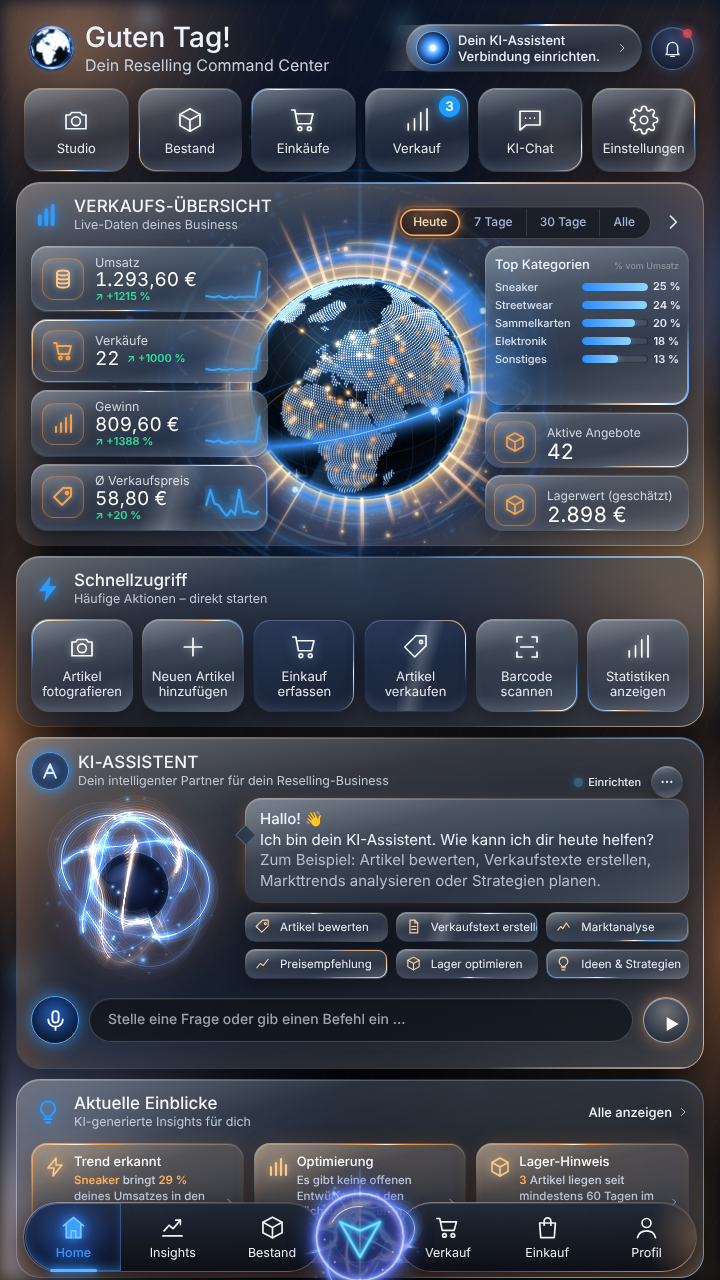
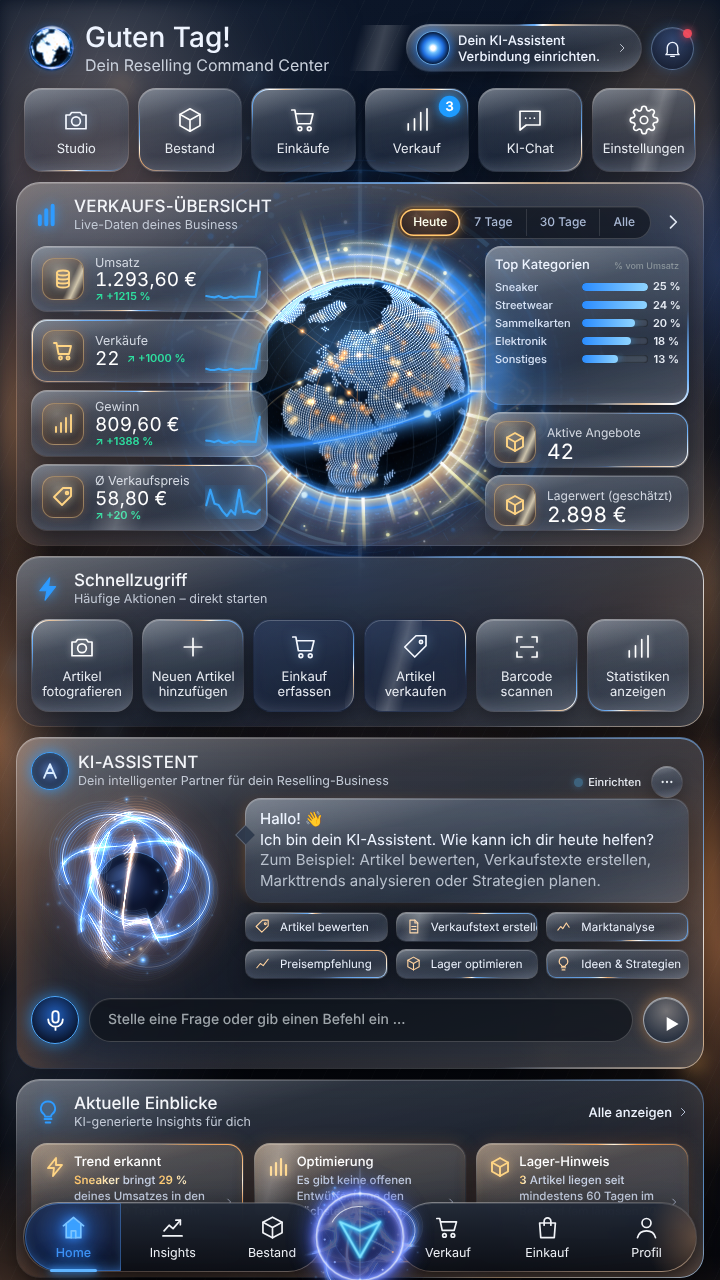
Gold-Symbole heller, langsames Gold-Schimmern auf allen goldenen Effekten
- Kennzahl-, Lager-, Einblick- und Anfrage-Symbole in hellem Gold
- Symbole leuchten zeitversetzt auf, Lichtstreifen gleitet über die Symbolfelder
- Gold-Hervorhebungen im Text, „Heute“ und goldenes Globus-Kraftfeld schimmern

Claude-Session: https://claude.ai/code/session_0194bcZ5PbUBuV3hzmwdGD96

diff --git a/public/theme.css b/public/theme.css
@@ -822,3 +822,43 @@ body:has(#home:not(.hidden)) .v11-ai .rv-crafted-chat #homeAiSend, .cc-send { bo
 @keyframes cc-ray { 0%,100% { opacity:.45; transform:scaleX(.65); } 50% { opacity:1; transform:scaleX(1.15); } }
 .v15-globe-wrap { width:330px !important; height:330px !important; margin-top:0 !important; }
 @media(min-width:1000px) { .v15-globe-wrap { width:440px !important; height:440px !important; } }
+
+/* ================= Helles Gold mit langsamem Schimmern ================= */
+:root { --gold-1:#ffe2a8; --gold-2:#ffc76e; --gold-3:#f0a040; }
+/* Gold-Symbole heller */
+.v11-m .mi, .v11-s2 .mi, .cc-q .ic { color:var(--gold-2) !important; border-color:rgba(255,205,130,.45) !important;
+  background:radial-gradient(circle at 35% 25%, rgba(255,215,150,.22), rgba(60,40,22,.35) 70%) !important; position:relative; overflow:hidden; }
+.v11-m .mi .v11-ico, .v11-s2 .mi .v11-ico, .cc-q .ic .v11-ico, .v11-card .ci { color:var(--gold-2) !important; stroke-width:1.9 !important;
+  animation:cc-goldshimmer 4.2s ease-in-out infinite !important; }
+.v11-m:nth-child(2) .mi .v11-ico, .cc-q:nth-child(3) .ic .v11-ico, .v11-card:nth-child(2) .ci { animation-delay:-1.1s !important; }
+.v11-m:nth-child(3) .mi .v11-ico, .cc-q:nth-child(4) .ic .v11-ico, .v11-card:nth-child(3) .ci { animation-delay:-2.2s !important; }
+.v11-m:nth-child(4) .mi .v11-ico, .v11-s2:nth-child(3) .mi .v11-ico, .cc-q:nth-child(5) .ic .v11-ico { animation-delay:-3.1s !important; }
+@keyframes cc-goldshimmer {
+  0%,100% { color:var(--gold-2); filter:brightness(1) drop-shadow(0 0 2px rgba(255,190,100,.55)); }
+  45% { color:var(--gold-1); filter:brightness(1.35) drop-shadow(0 0 5px rgba(255,210,140,.95)) drop-shadow(0 0 11px rgba(255,160,70,.55)); }
+  60% { color:#fff4d8; filter:brightness(1.5) drop-shadow(0 0 7px rgba(255,225,170,1)) drop-shadow(0 0 14px rgba(255,170,80,.6)); }
+}
+/* Lichtstreifen, der langsam über jedes Gold-Symbolfeld gleitet */
+.v11-m .mi::after, .v11-s2 .mi::after, .cc-q .ic::after { content:'' !important; position:absolute; inset:-30%; pointer-events:none; mix-blend-mode:screen;
+  background:linear-gradient(115deg, transparent 38%, rgba(255,240,205,.0) 42%, rgba(255,240,205,.75) 50%, rgba(255,240,205,0) 58%, transparent 62%);
+  transform:translateX(-80%); animation:cc-goldsweep 4.2s ease-in-out infinite; }
+.v11-m:nth-child(2) .mi::after { animation-delay:-1.1s; } .v11-m:nth-child(3) .mi::after { animation-delay:-2.2s; } .v11-m:nth-child(4) .mi::after { animation-delay:-3.1s; }
+@keyframes cc-goldsweep { 0%,40% { transform:translateX(-80%); } 75%,100% { transform:translateX(80%); } }
+
+/* Gold-Schrift (Hervorhebungen) schimmert */
+.v11-card p em, .cc-ins .v11-card p em { background:linear-gradient(100deg, var(--gold-3) 0%, var(--gold-2) 35%, #fff2d2 50%, var(--gold-2) 65%, var(--gold-3) 100%);
+  background-size:250% 100%; -webkit-background-clip:text; background-clip:text; color:transparent !important; animation:cc-goldtext 4.5s ease-in-out infinite; }
+@keyframes cc-goldtext { 0%,100% { background-position:100% 0; } 50% { background-position:0% 0; } }
+
+/* „Heute“ und weitere goldene Effekte schimmern */
+.v11-seg button[aria-pressed='true'] { color:#fff0d6 !important; animation:cc-segwarm 4.2s ease-in-out infinite !important; }
+@keyframes cc-segwarm {
+  0%,100% { box-shadow:inset 0 0 0 1.5px var(--gold-2), 0 0 8px rgba(255,170,70,.45); filter:brightness(1); }
+  55% { box-shadow:inset 0 0 0 1.5px var(--gold-1), 0 0 18px rgba(255,190,100,.9), 0 0 30px rgba(255,150,60,.35); filter:brightness(1.15); } }
+.v11-card > .cc-glint { animation-duration:5.5s; }
+.cc-globe-gold { animation:cc-goldfield 4.2s ease-in-out infinite; }
+@keyframes cc-goldfield { 0%,100% { filter:drop-shadow(0 0 2px rgba(255,180,90,.8)) brightness(1); } 55% { filter:drop-shadow(0 0 4px rgba(255,215,150,1)) brightness(1.3); } }
+@media (prefers-reduced-motion: reduce) {
+  .v11-m .mi .v11-ico, .v11-s2 .mi .v11-ico, .cc-q .ic .v11-ico, .v11-card .ci, .v11-m .mi::after, .v11-s2 .mi::after, .cc-q .ic::after, .v11-card p em, .cc-globe-gold { animation:none !important; }
+}
+:root { --gold-1:#fff0c8 !important; --gold-2:#ffd585 !important; --gold-3:#ffb24e !important; }

diff --git a/public/sw.js b/public/sw.js
@@ -1,4 +1,4 @@
-const CACHE='rv-studio-v19-blueglass-12';
+const CACHE='rv-studio-v19-blueglass-13';
 const FILES=['/','/index.html','/app.css','/dashboard.css','/fx.css','/ref.css','/theme.css','/app.js','/dashboard.js','/fx.js',
   '/vendor/jszip.min.js','/fonts/command-sans-regular.otf','/fonts/command-sans-bold.otf',
   '/rv-logo.jpg','/rv-ai-mascot.png','/rv-robot-premium.png','/rv-white.png',
